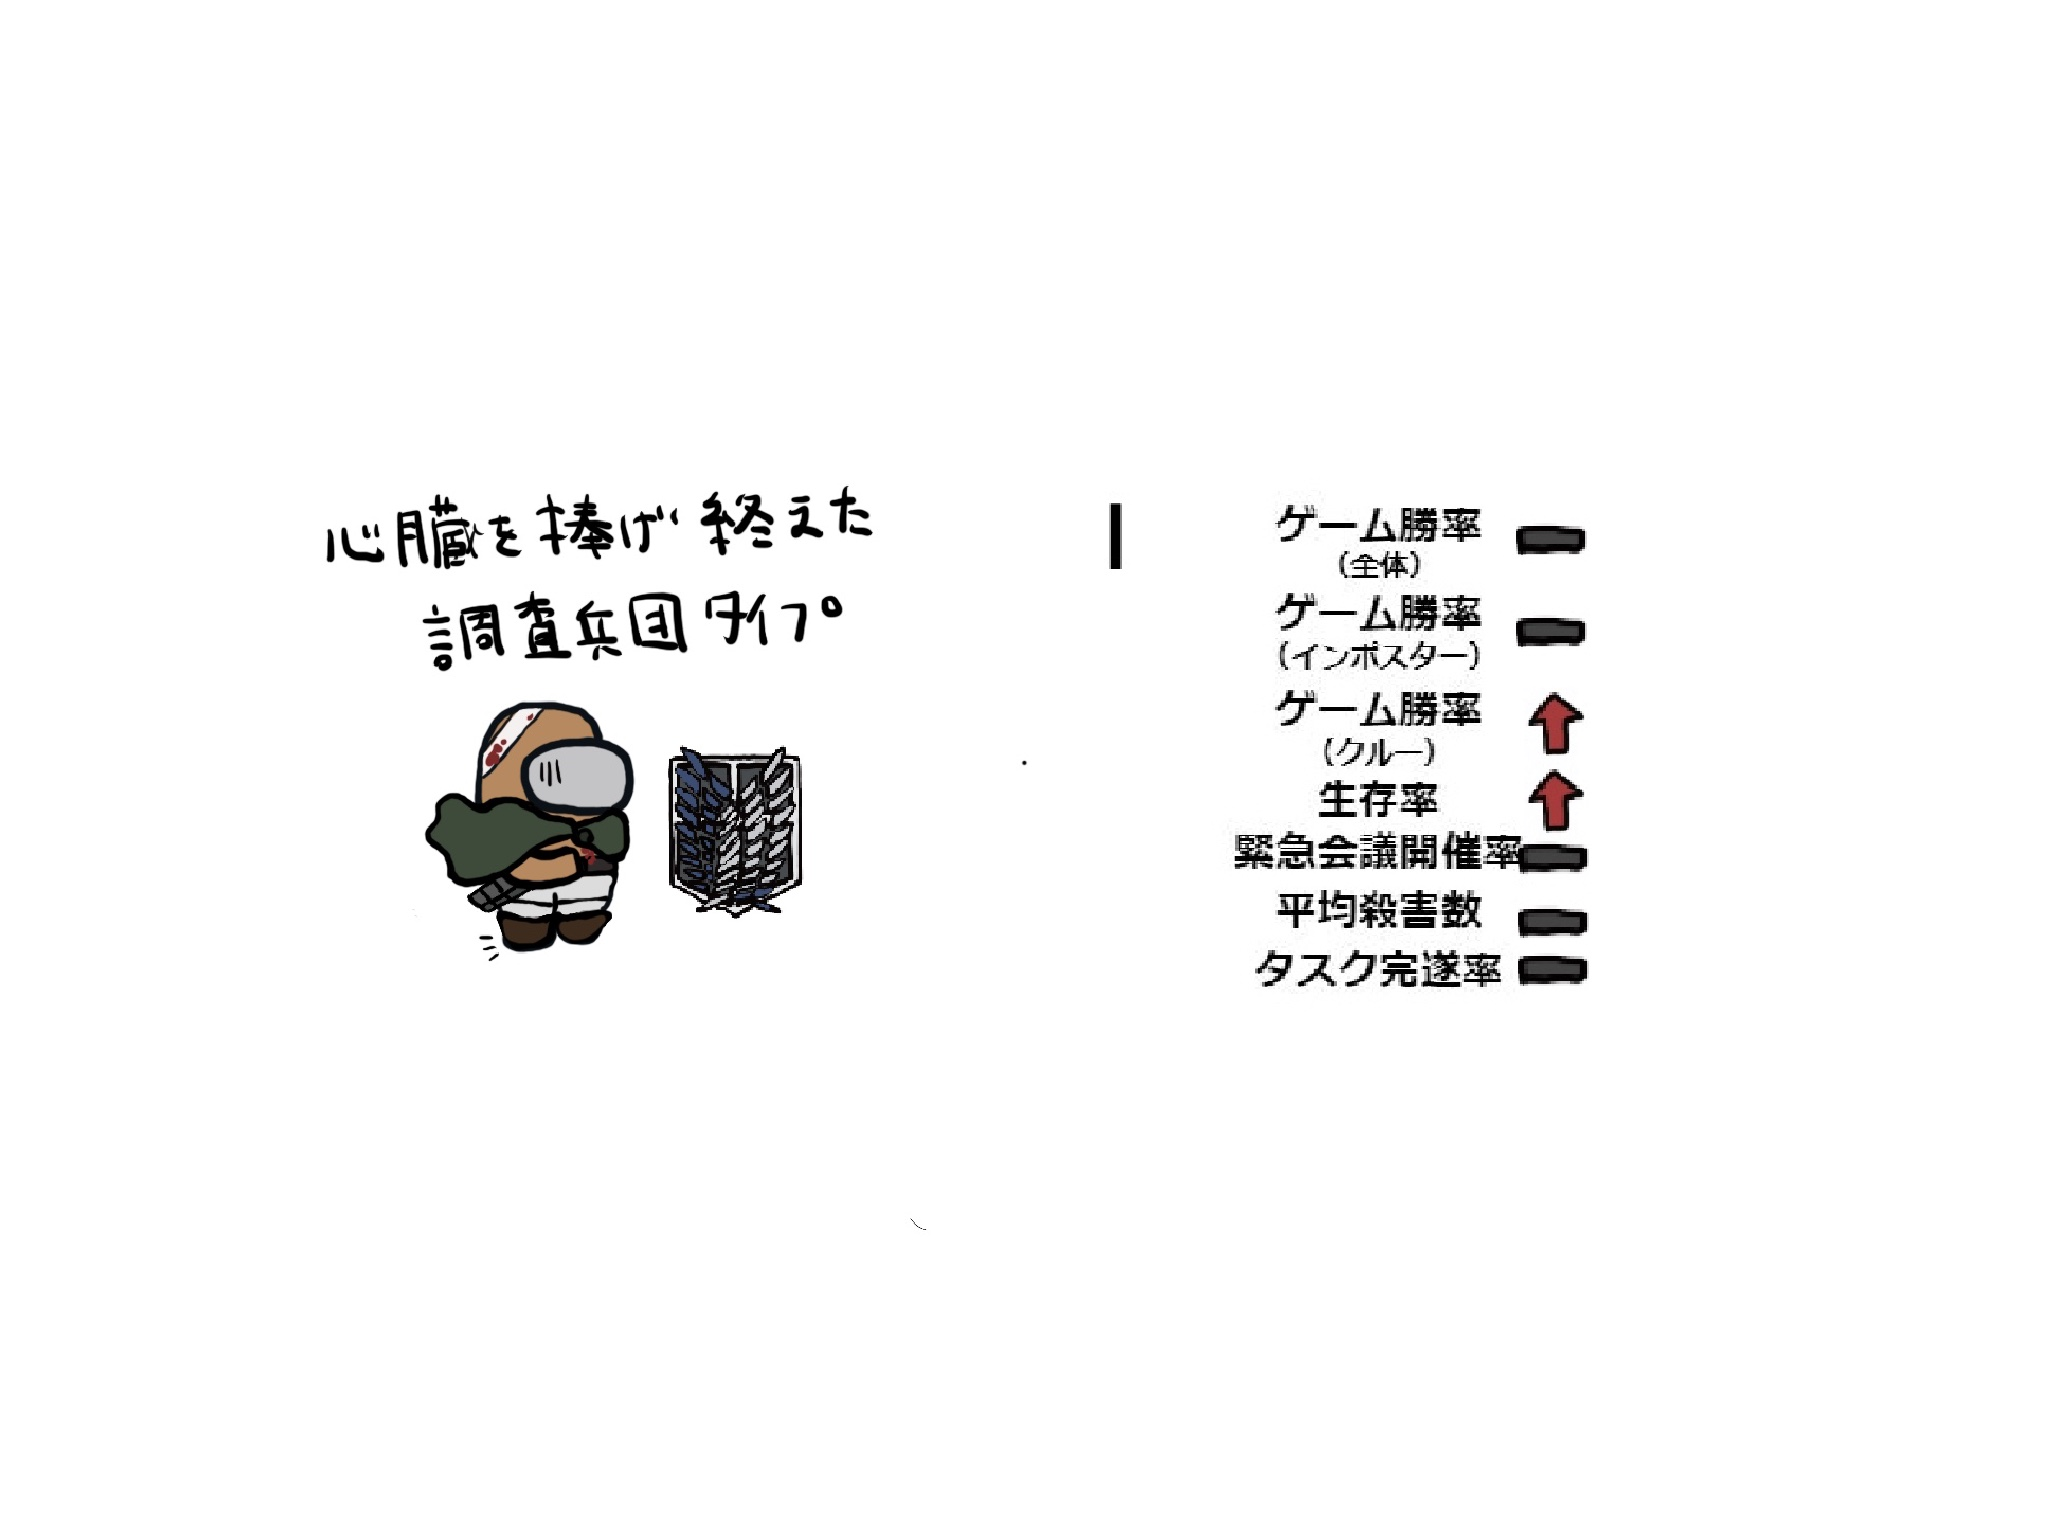
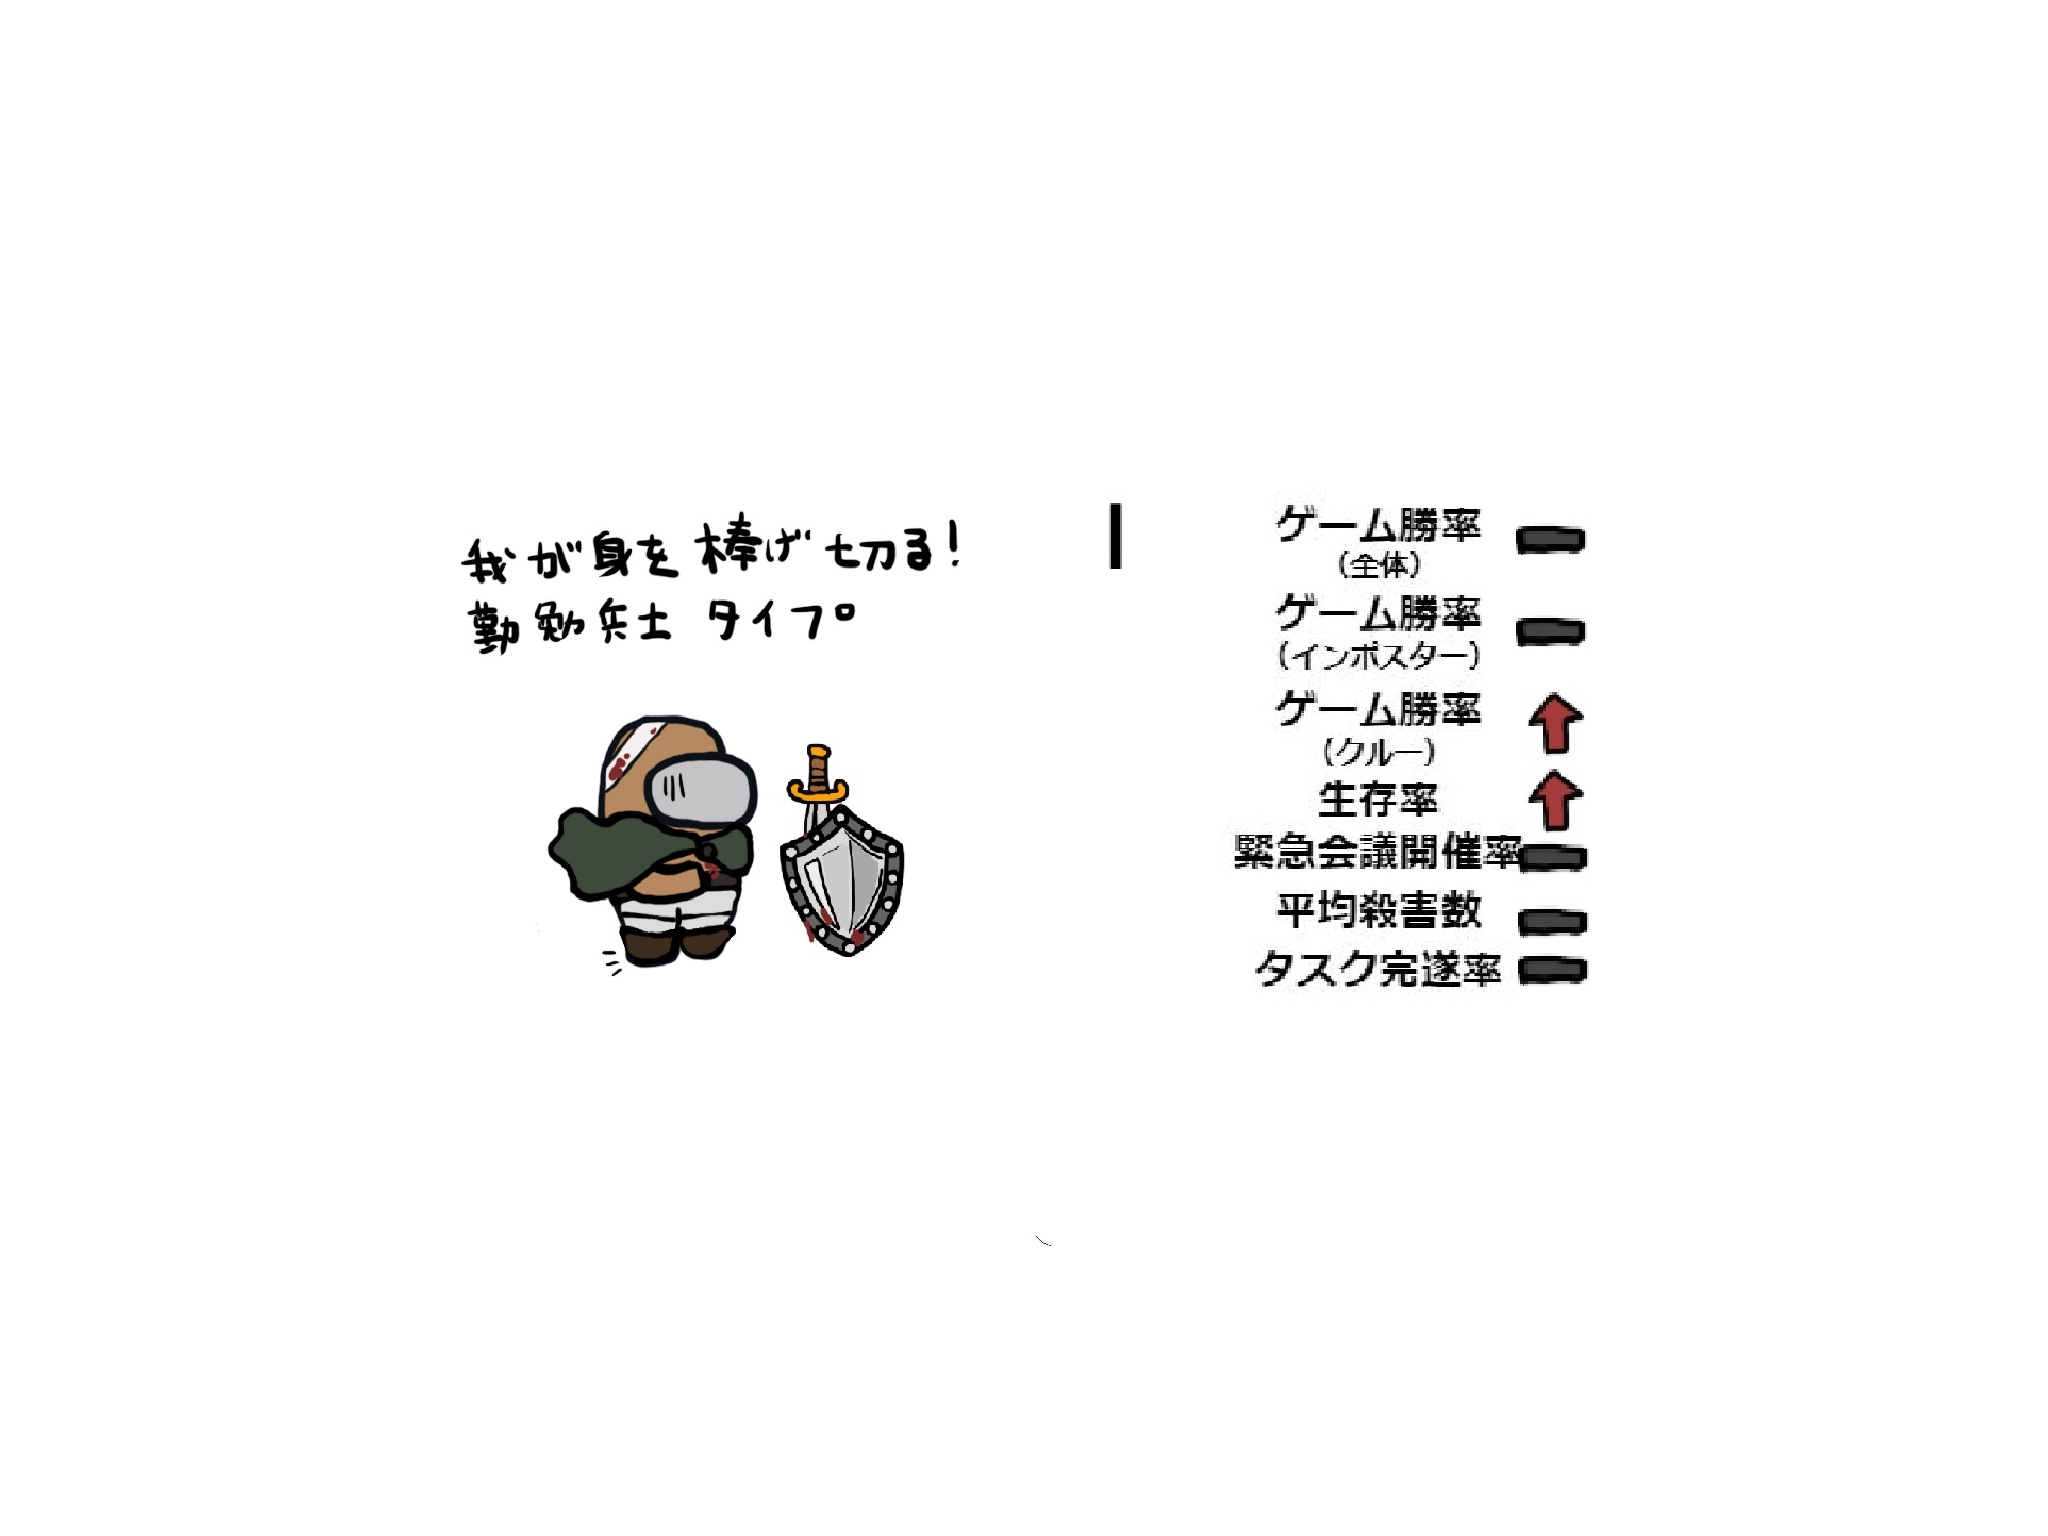
second commit

Changed region(s): [[0.1562, 0.3125, 0.4688, 0.625]]

diff --git a/code/main.py b/code/main.py
@@ -69,15 +69,15 @@ def compute_personality(df_personality, df_base):
     return personality_result
 
 def get_personality_caption(label):
-    personality = {'A':{'main':'フリーザータイプ','sub':'戦闘力のスーパーインフレ','metrics':''},
+    personality = {'A':{'main':'最強タイプ','sub':'戦闘力のスーパーインフレ','metrics':''},
                    'B':{'main':'プロフェッショナル仕事の流儀タイプ','sub':'','metrics':''},
                    'C':{'main':'草葉の陰からこんにちはタイプ','sub':'骨の髄まで働かされ','metrics':''},
                    'D':{'main':'残虐なるサイコキラータイプ','sub':'最白位置で人肉食う','metrics':''},
                    'E':{'main':'華麗なる詐欺師タイプ','sub':'意のままにあなたを操る','metrics':''},
                    'F':{'main':'悩める堕天使タイプ','sub':'本当はもう殺したくない...','metrics':''},
                    'G':{'main':'最強の正直ものタイプ','sub':'このゲームは信じるゲーム','metrics':''},
-                   'H':{'main':'名探偵コナンガス','sub':'犯人はこの中にいる！','metrics':''},
-                   'I':{'main':'調査兵団タイプ','sub':'心臓を捧げ終えた','metrics':''},
+                   'H':{'main':'名探偵タイプ','sub':'犯人はこの中にいる！','metrics':''},
+                   'I':{'main':'勤勉兵士タイプ','sub':'','metrics':'我が身を捧げ切る！'},
                    'J':{'main':'器用貧乏タイプ','sub':'明日から多分本気出す','metrics':''},
                    'K':{'main':'全力社畜タイプ','sub':'月間残業時間天城越え','metrics':''},
                    'L':{'main':'大阪のおばちゃんタイプ','sub':'ただただ話したいだけ','metrics':''},
